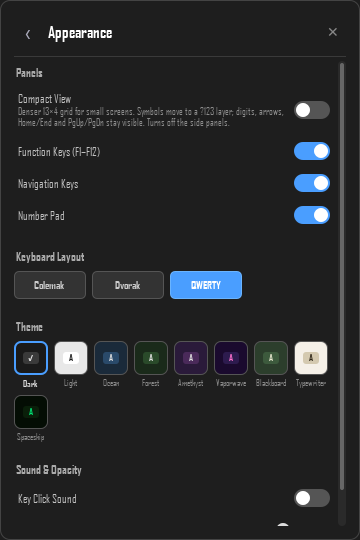
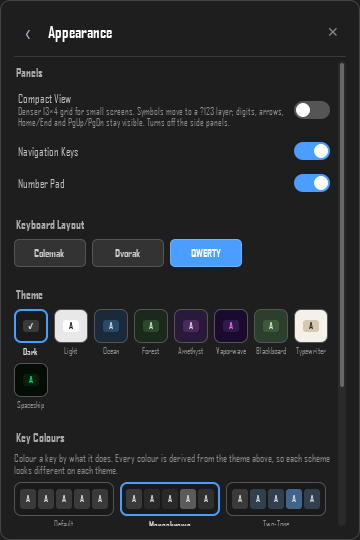
fix(screenshots): register telemetry before capturing Main.qml
The capture script set only the `keyboard` context property, so every run
raised "telemetry is not defined" at load and the consent toggle in
Data & Privacy failed to bind, in a screenshot that goes into the public
README. It now goes through tests/qml_context.py, the single place both
properties are registered, which also parents the TelemetryBridge to the
KeyboardBridge so it survives the call.

Screenshots regenerated on top of that, and they pick up the flush section
heights and the Monochrome keycaps.

diff --git a/scripts/capture_screenshots.py b/scripts/capture_screenshots.py
@@ -99,6 +99,13 @@ QSettings("alpha-osk-screenshots", "Alpha-OSK-Screenshots").clear()
 
 from src import keyboard_bridge  # noqa: E402
 
+# The single place both QML context properties are registered. It lives
+# under tests/ because the headless QML test fixtures were its first
+# seven callers, but it is not test-only: anything that loads Main.qml
+# outside the app needs exactly this, and a second copy here is how the
+# two drift.
+from tests.qml_context import install_context_properties  # noqa: E402
+
 # Demo vocabulary for the model-facing shots.  Deliberately bland: it is
 # rendered into a public README, so it must not be anybody's real typing.
 # Repetition is what gives the word cloud and the top-words chart their
@@ -239,7 +246,14 @@ def main() -> int:
         warnings: list[str] = []
         engine = QQmlApplicationEngine()
         engine.warnings.connect(lambda errs: warnings.extend(e.toString() for e in errs))
-        engine.rootContext().setContextProperty("keyboard", bridge)
+        # Both context properties Main.qml reads, through the one helper
+        # that registers them. Registering only `keyboard` here left
+        # Data & Privacy raising "telemetry is not defined" at load, so
+        # the consent toggle failed to bind in a screenshot that goes
+        # into the public README. The helper also parents the
+        # TelemetryBridge to the KeyboardBridge, without which it is
+        # garbage-collected the moment this call returns.
+        install_context_properties(engine, bridge)
         engine.load(QUrl.fromLocalFile(str(REPO / "qml" / "Main.qml")))
         if not engine.rootObjects():
             print("Main.qml failed to load:")
